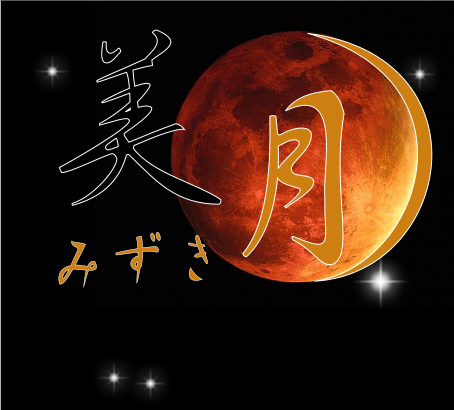
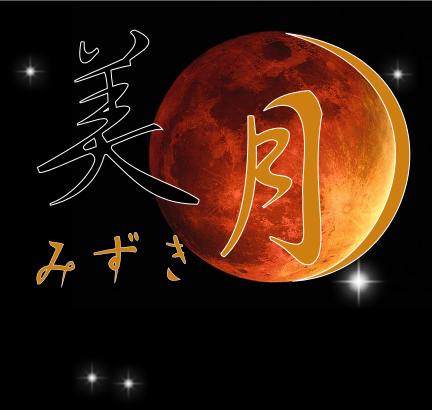
jqtouch initially

diff --git a/app/stylesheets/iphone.sass b/app/stylesheets/iphone.sass
@@ -14,7 +14,7 @@ $star1_y: $star_base_y + 162px
   display: block
 
 div.current
-  background: black url('/images/red_moon_mizuki.png') no-repeat scroll top left
+  background: black url('/images/red_moon_mizuki640.png') no-repeat scroll top left
   div#star1
     +star-base($star1_x,$star1_y)
 
